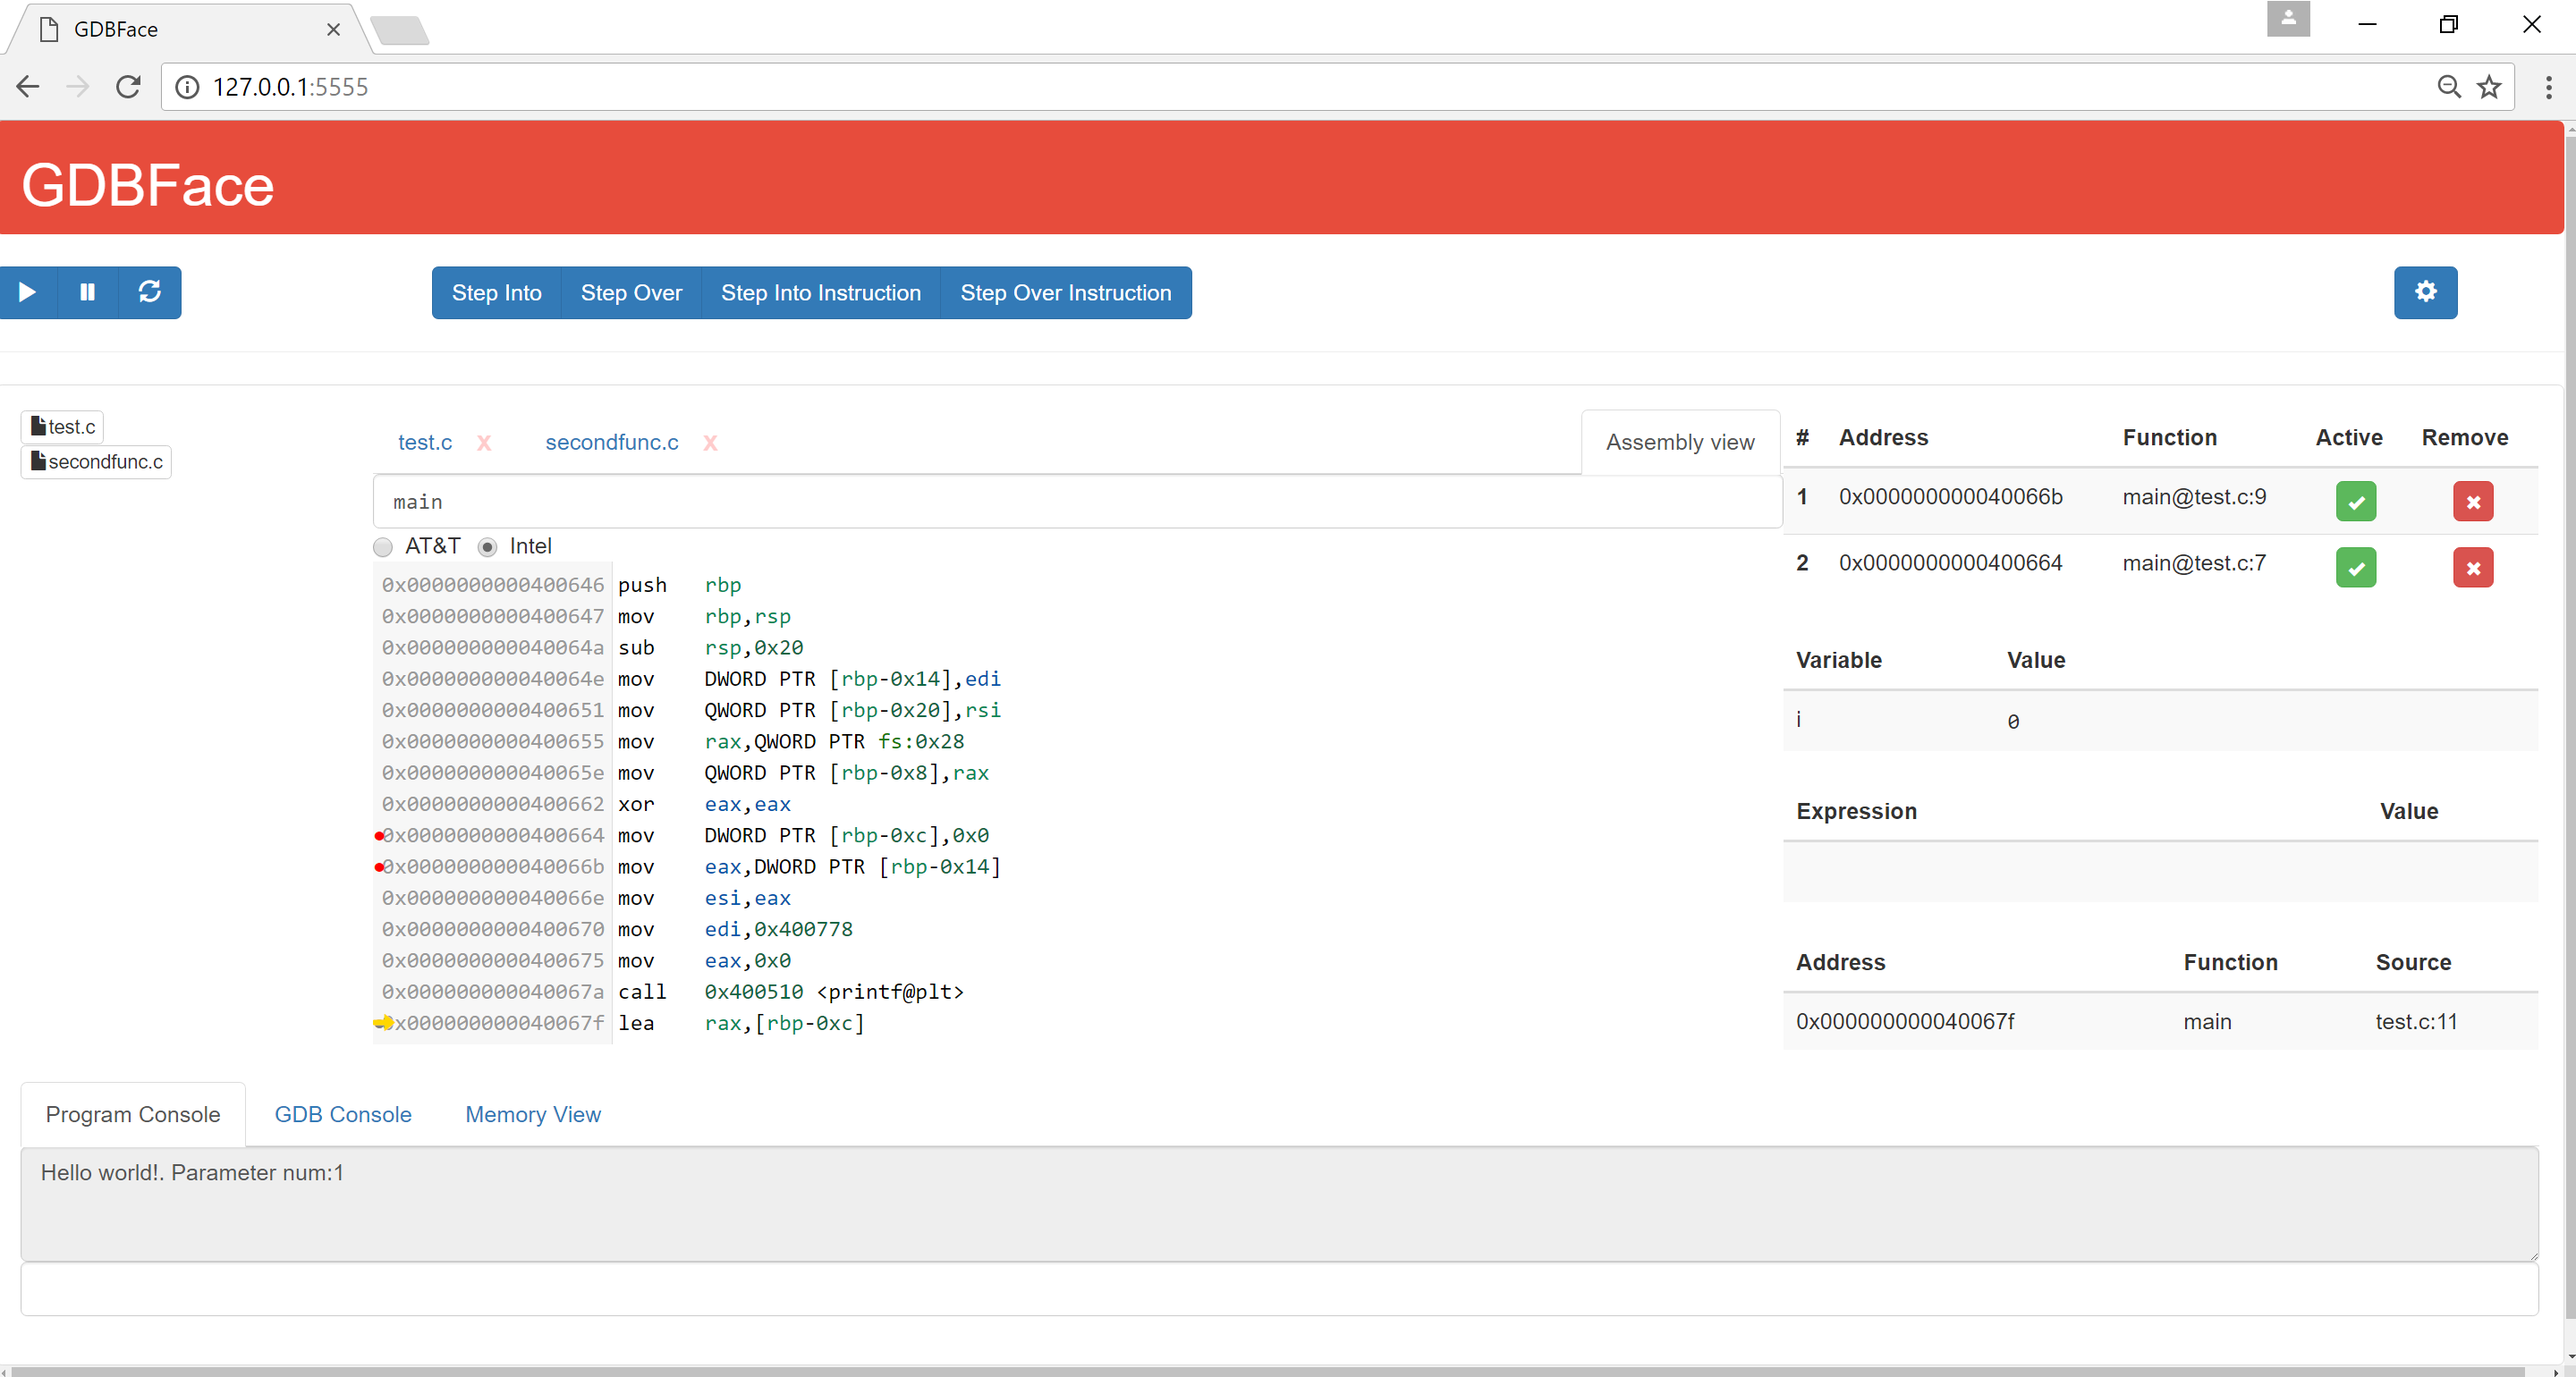
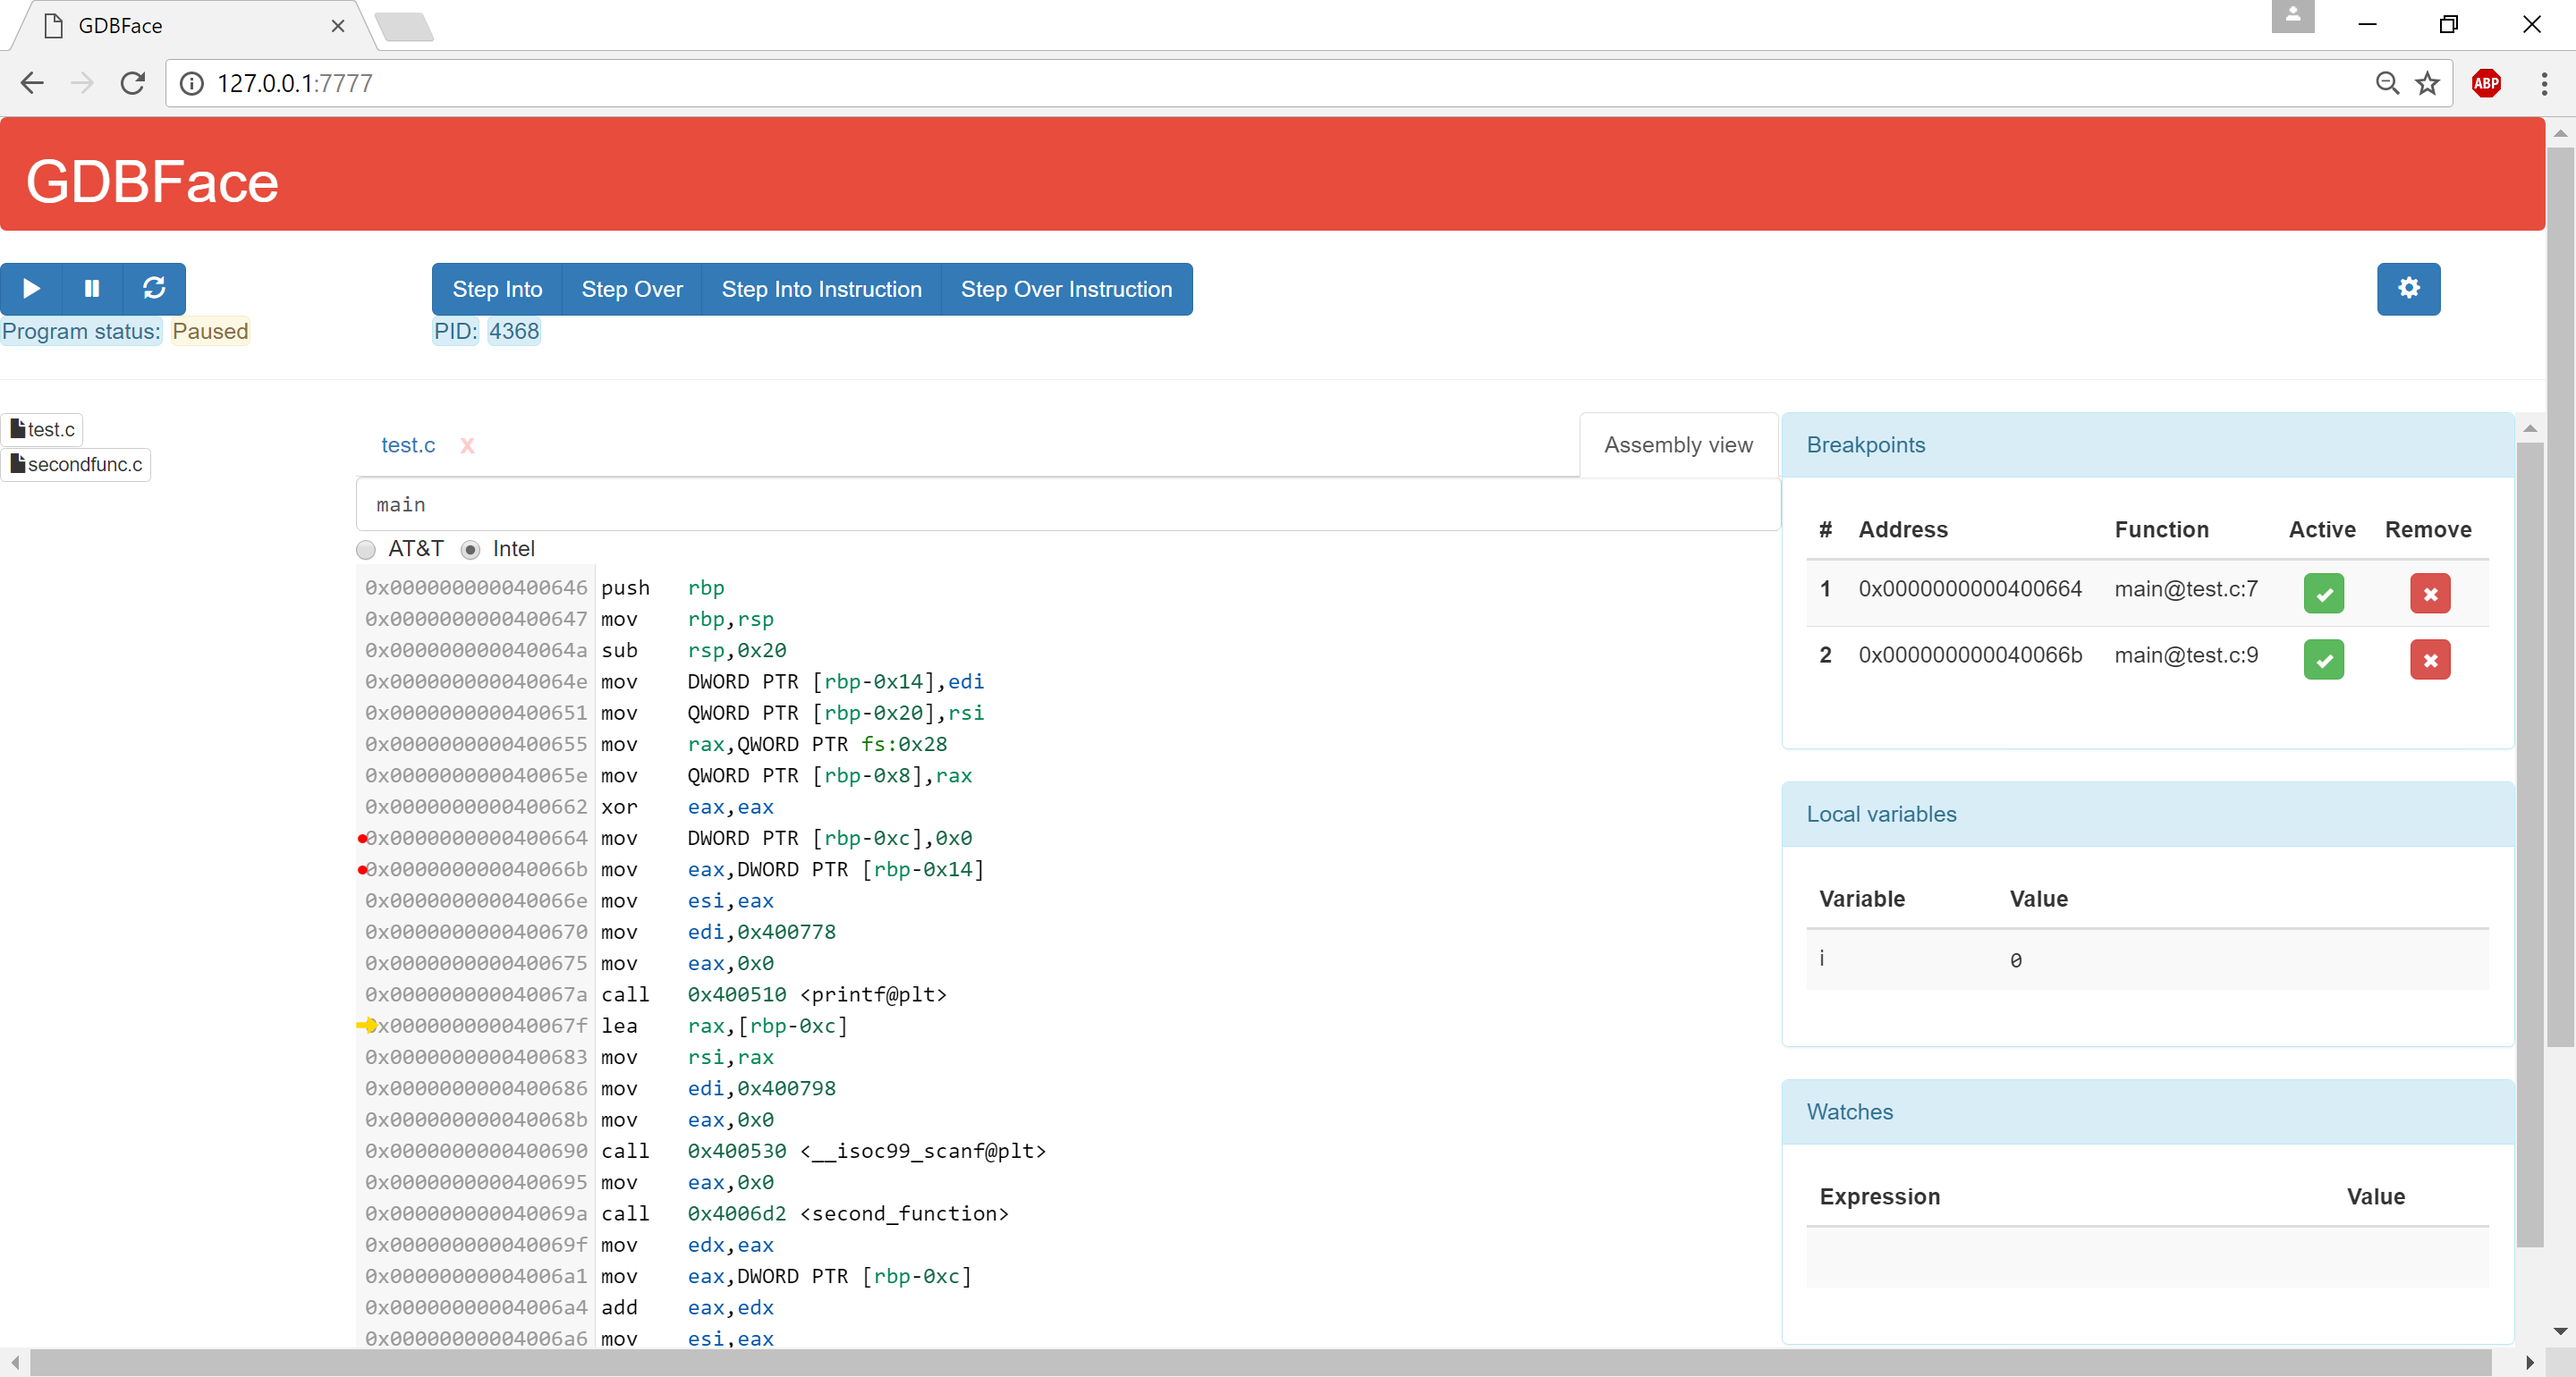
Screenshots & readme

diff --git a/README.md b/README.md
@@ -16,31 +16,23 @@ Currently implemented features:
 
 ## Screenshots
 
+Source debugging with tooltips over variables:
 ![Source debugging](/docs/screenshots/src_debug.png?raw=true "Source debugging with program console")
+Interact with the debugged program:
+![Program console](/docs/screenshots/program_console.png?raw=true "Program console")
+Assembly view:
 ![Assembly view](/docs/screenshots/asm.png?raw=true "Assembly view")
+Edit memory:
 ![Hex view](/docs/screenshots/hex.png?raw=true "Hex view")
 
-## Building
+## Installing
+   1. npm install gdbface -g
 
-### Prerequisites
-
-	1. Nodejs
-	2. webpack
-		1. npm install -g webpack
-
-### Building procedure
-
-	1. npm install from working directory
-	2. invoke ./buildall.sh
-
-### Usage
-
-	1. ./gdbface <path to program> <arguments>
-	2. ./gdbface -p <pid>
-	3. Open a browser and point it to http://localhost:5555 (This will change in the future when the project stabilizes)
-
-	Note: Compile your program with -g flag for best results
-
+## Usage
+   1. gdbface <path to program> [args]
+   2. gdbface -p <pid>
+   Note: Best works on programs compiled with -g flag
+   
 ## License
 
 See LICENSE file
